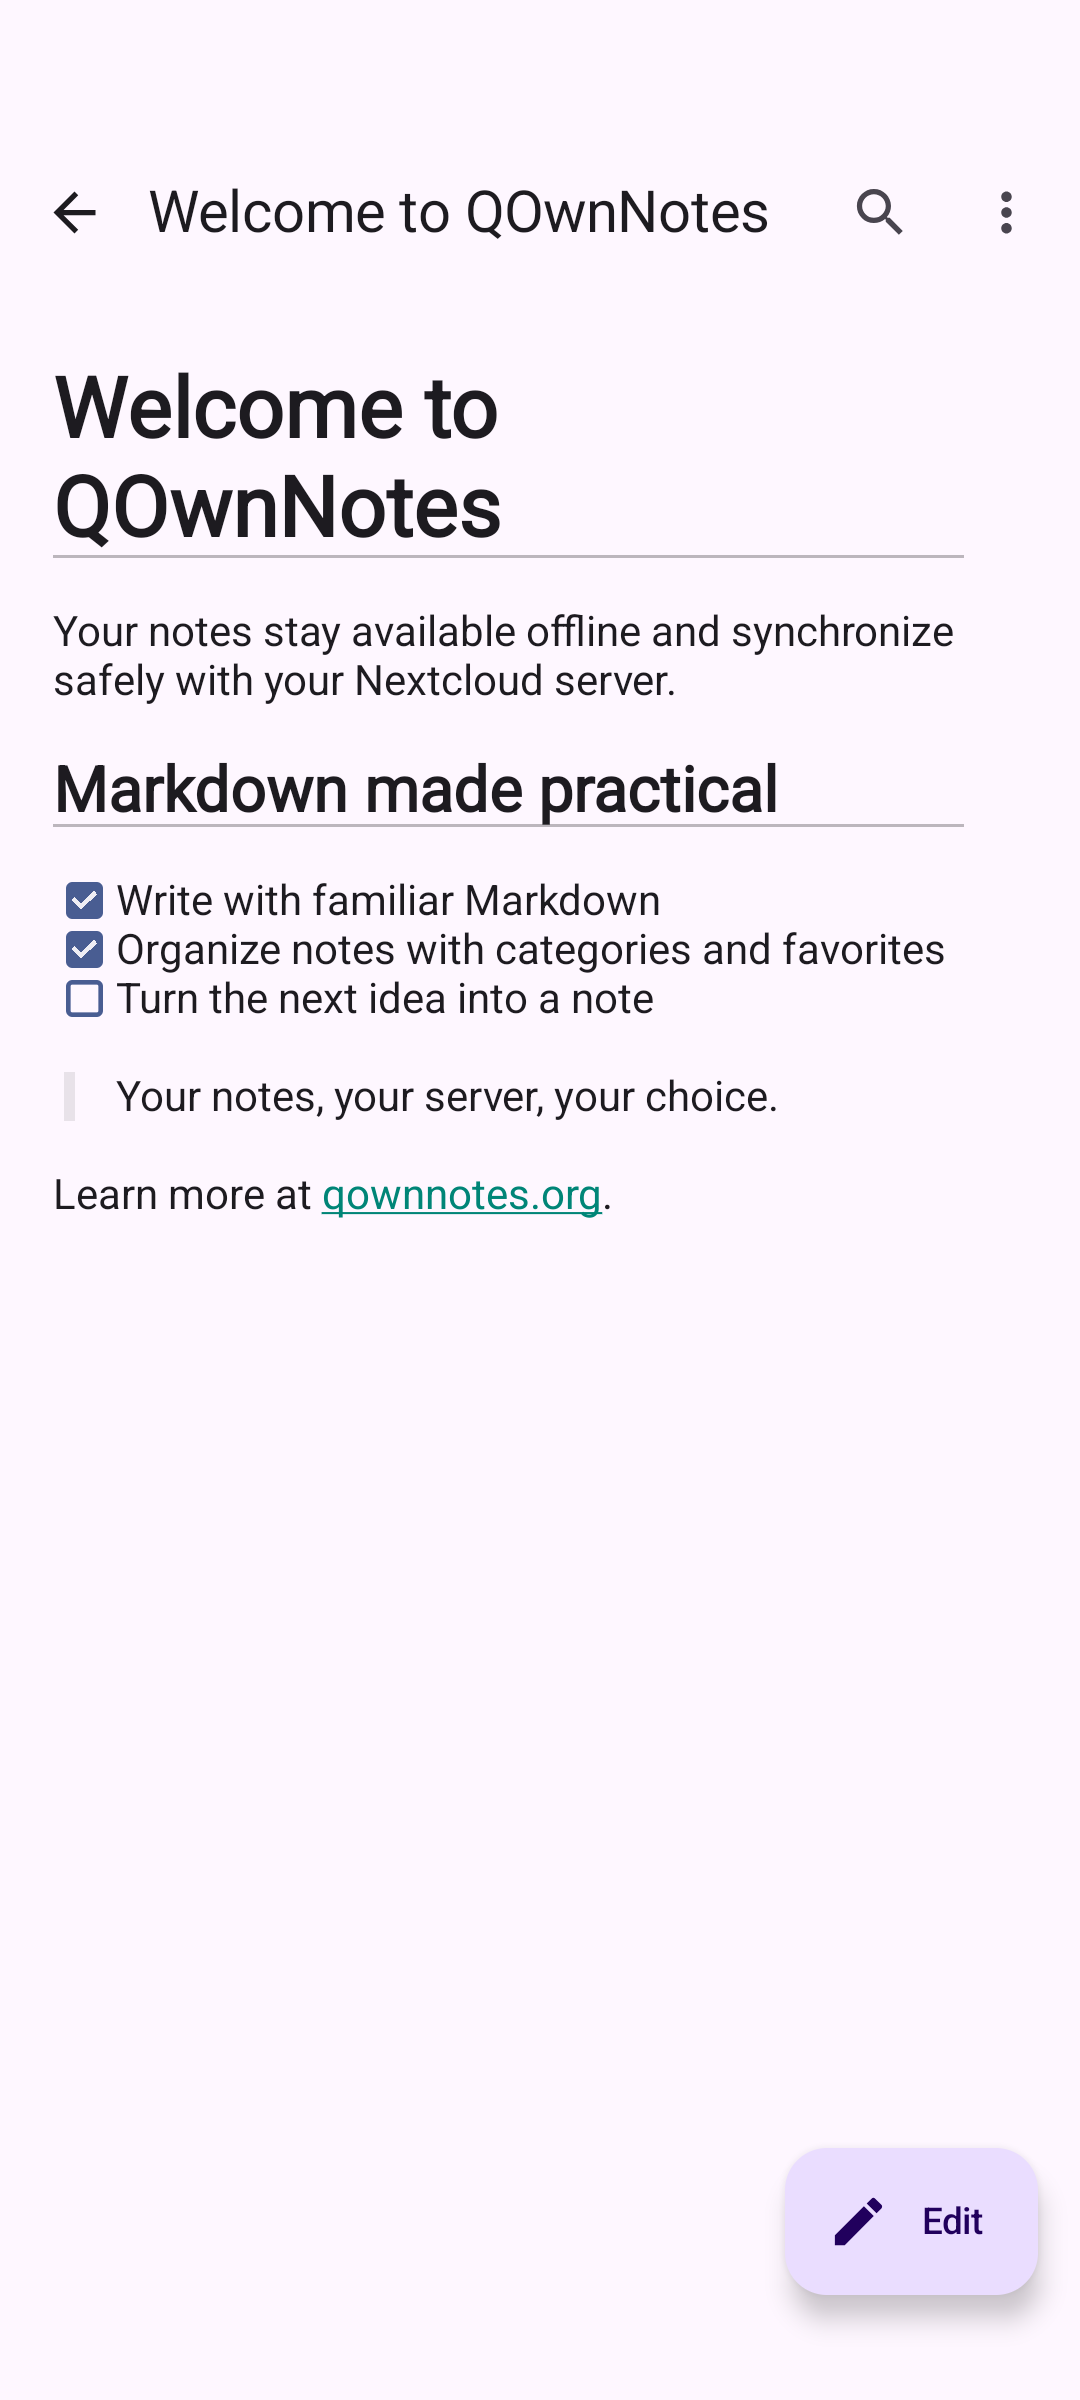
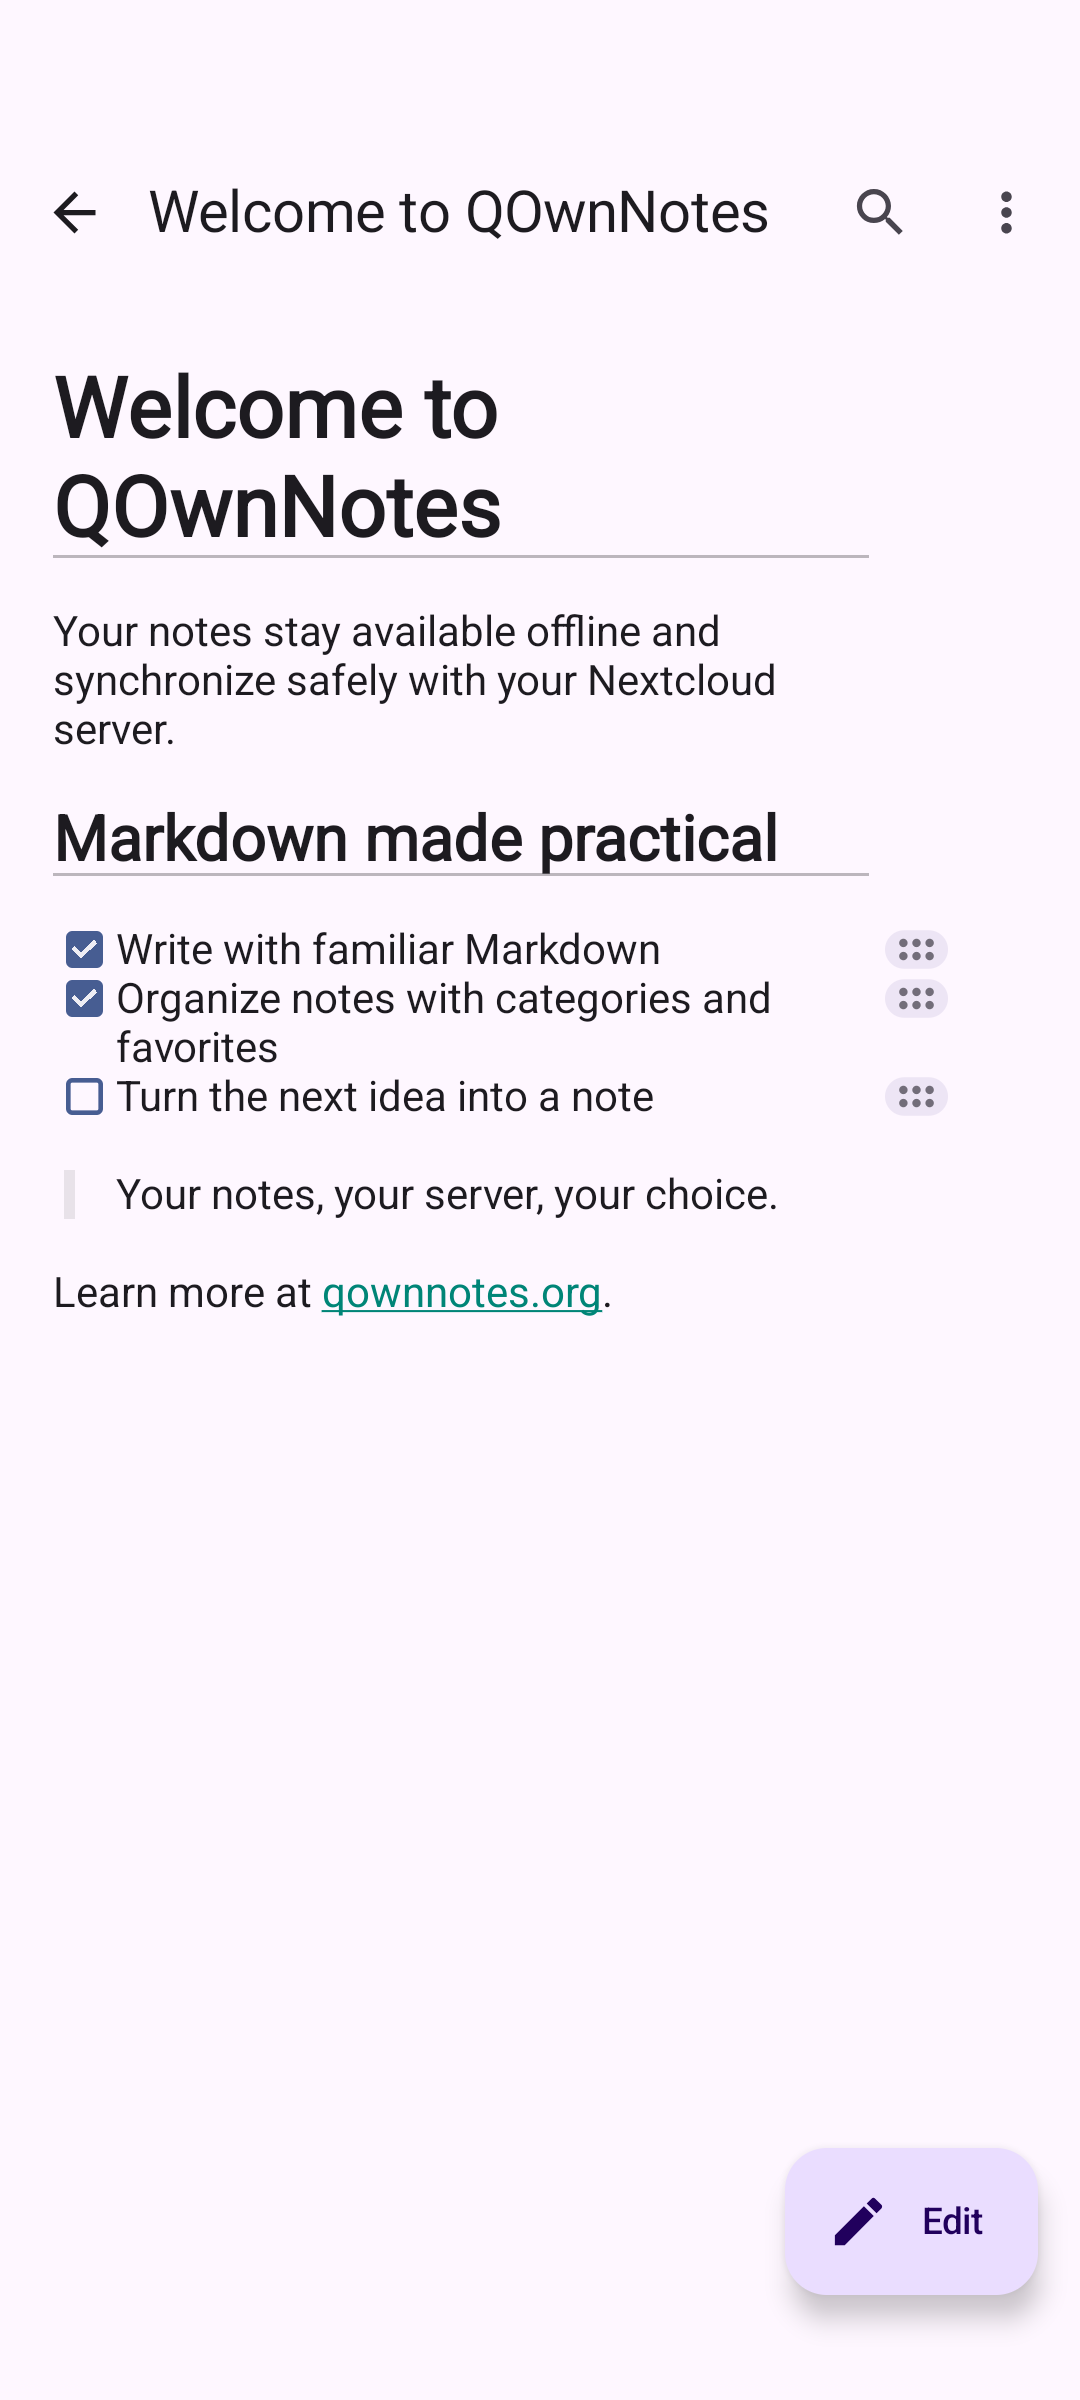
doc: add a setup screenshot with nextcloud and local folder choices
Capture the first screen as the fourth deterministic store screenshot,
show it in the README, and refresh the other screenshots.

Changed region(s): [[0.0306, 0.25, 0.8861, 0.5625], [0.0611, 0.5312, 0.1222, 0.5625]]

diff --git a/app/src/androidTest/kotlin/org/qownnotes/mobile/FdroidScreenshotTest.kt b/app/src/androidTest/kotlin/org/qownnotes/mobile/FdroidScreenshotTest.kt
@@ -39,6 +39,11 @@ class FdroidScreenshotTest {
 
     @Test
     fun captureStoreScreenshots() {
+        // The first screen offers a Nextcloud account or a local note folder.
+        composeRule.waitForTag("add-local-folder")
+        composeRule.waitForIdle()
+        capture("4.png")
+
         val account =
             SingleSignOnAccount(
                 "demo",

diff --git a/README.md b/README.md
@@ -55,9 +55,9 @@ the same device. See [`CHANGELOG.md`](CHANGELOG.md) for release details.
 
 ## Screenshots
 
-| Note list | Note view | Note edit |
-| --- | --- | --- |
-| ![Note list](fastlane/metadata/android/en-US/images/phoneScreenshots/1.png) | ![Note view](fastlane/metadata/android/en-US/images/phoneScreenshots/2.png) | ![Note edit](fastlane/metadata/android/en-US/images/phoneScreenshots/3.png) |
+| Note list | Note view | Note edit | Setup |
+| --- | --- | --- | --- |
+| ![Note list](fastlane/metadata/android/en-US/images/phoneScreenshots/1.png) | ![Note view](fastlane/metadata/android/en-US/images/phoneScreenshots/2.png) | ![Note edit](fastlane/metadata/android/en-US/images/phoneScreenshots/3.png) | ![Setup with a Nextcloud account or a local folder](fastlane/metadata/android/en-US/images/phoneScreenshots/4.png) |
 
 ## Nextcloud Account Setup
 
